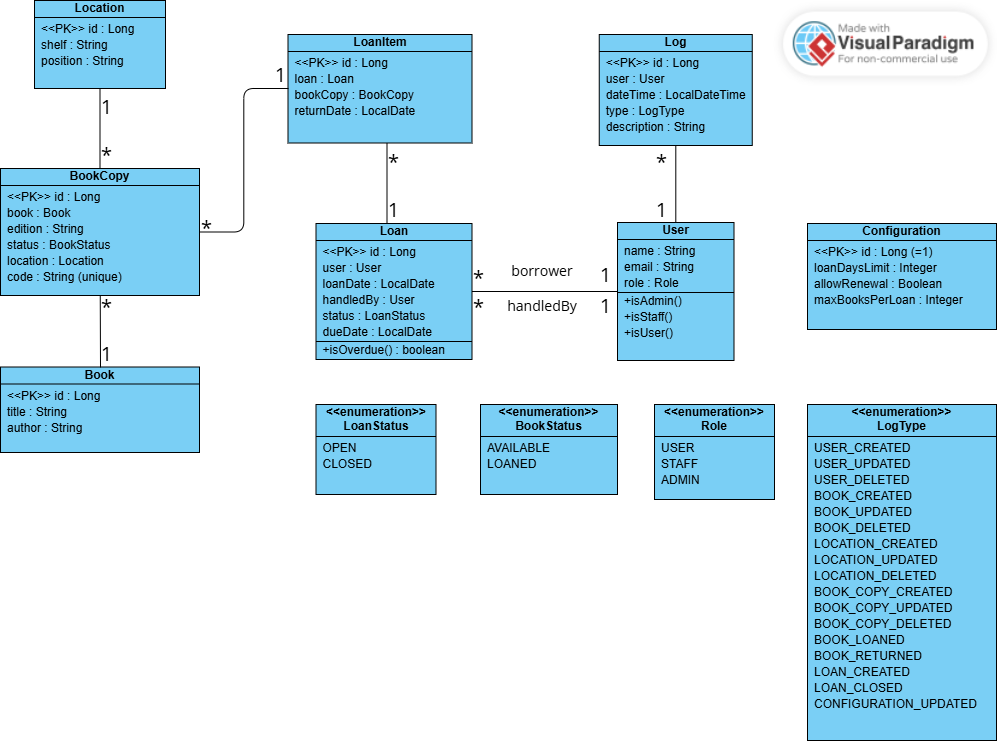
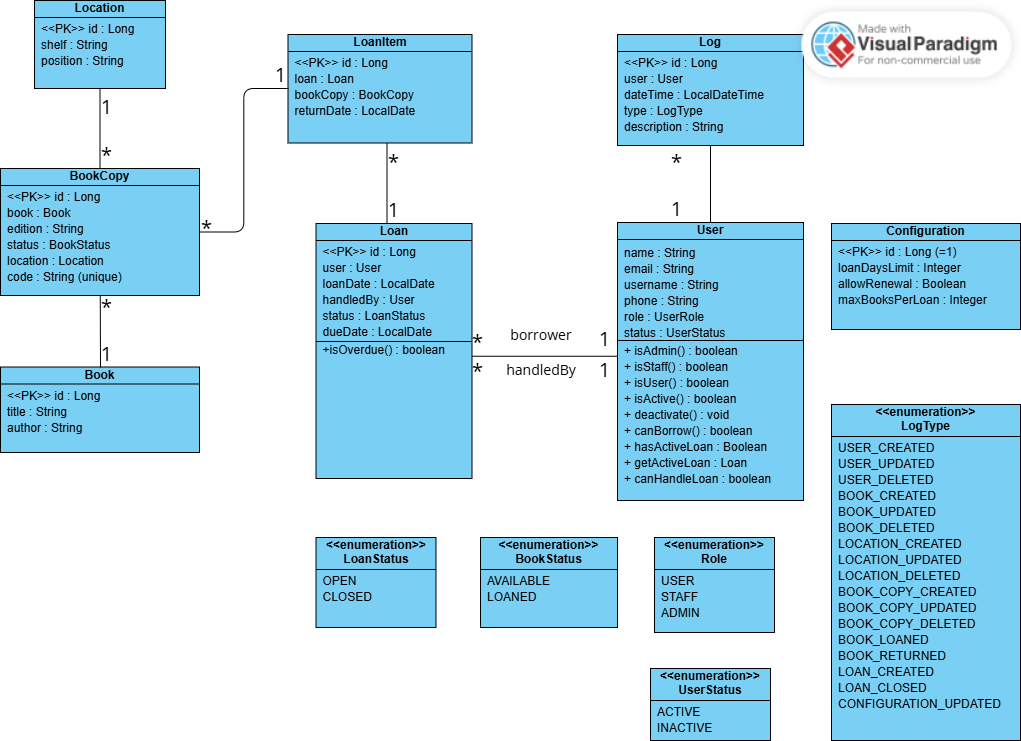
Alteracao entidade User, alteracao uml, criacao de metodos auxiliares na entidade user

diff --git a/src/main/java/com/acervo/acervoespirita/model/User.java b/src/main/java/com/acervo/acervoespirita/model/User.java
@@ -1,10 +1,17 @@
 package com.acervo.acervoespirita.model;
 
 import com.acervo.acervoespirita.model.enums.UserRole;
+import com.acervo.acervoespirita.model.enums.UserStatus;
 import jakarta.persistence.*;
+import jakarta.validation.constraints.Email;
+import jakarta.validation.constraints.NotBlank;
 import lombok.*;
 
 import java.io.Serializable;
+import java.time.Instant;
+import java.util.ArrayList;
+import java.util.Collections;
+import java.util.List;
 import java.util.Objects;
 
 @Entity
@@ -12,21 +19,67 @@ import java.util.Objects;
 @Getter
 @Setter
 @NoArgsConstructor
-@ToString
+@ToString(exclude = {"loans"})
 public class User implements Serializable {
 
     @Id
     @GeneratedValue(strategy = GenerationType.IDENTITY)
     private Long id;
+
+    @NotBlank
+    @Column(nullable = false)
     private String name;
+
+    @Column(unique = true, nullable = false)
+    @Setter(AccessLevel.NONE)
+    private String username;
+
+    // Tanto o email como phone podem estar vazio sao dados so para contatos
+    @Email
     private String email;
+    private String phone;
+
+    @Column(nullable = false)
+    @Enumerated(EnumType.STRING)
+    @Setter(AccessLevel.NONE)
     private UserRole role;
 
+    @OneToMany(mappedBy = "user", fetch = FetchType.LAZY)
+    @Setter(AccessLevel.NONE) //Nao permite setar uma nova lista de emprestimos, vai precisar add novos emprestimos na lista ja existente
+    private List<Loan> loans = new ArrayList<>();
+
+    @Column(nullable = false)
+    @Enumerated(EnumType.STRING)
+    private UserStatus status;
+
+    @Column(nullable = false, updatable = false)
+    private Instant createdAt;
+
+    @Column(nullable = false)
+    private Instant updatedAt;
+
     @Builder
-    public User(String name, String email, UserRole role) {
+    public User(String name, String email, String username, String phone, UserRole role) {
+        if (name == null || name.isBlank()) {
+            throw new IllegalArgumentException("É necessário informar o nome!");
+        }
+
+        if (username == null || username.isBlank()) {
+            throw new IllegalArgumentException("É necessário informar o Usuário!");
+        }
+
+        if (role == null) {
+            throw new IllegalArgumentException("É necessário informar o função do usuário!");
+        }
+
         this.name = name;
         this.email = email;
+        this.username = username;
+        this.phone = phone;
         this.role = role;
+        this.status = UserStatus.ACTIVE;
+        this.createdAt = Instant.now();
+        this.updatedAt = Instant.now();
     }
 
     @Override
@@ -40,6 +93,75 @@ public class User implements Serializable {
     public int hashCode() {
         return Objects.hashCode(id);
     }
+
+    //Métodos criados
+
+    //Metodos sobre o Usuario
+    public boolean isActive() {
+        return status == UserStatus.ACTIVE;
+    }
+
+    public void deactivate() {
+        if (hasActiveLoan()) {
+            throw new IllegalStateException("Erro ao Inativar: Usuário tem um empréstimo ativo!");
+        }
+        this.status = UserStatus.INACTIVE;
+    }
+
+    public boolean isAdmin() {
+        return role == UserRole.ADMIN;
+    }
+
+    public boolean isStaff() {
+        return role == UserRole.STAFF;
+    }
+
+    public boolean isUser() {
+        return role == UserRole.USER;
+    }
+
+    public void changeRole(UserRole newRole) {
+        if (newRole == null) {
+            throw new IllegalArgumentException("Role inválida");
+        }
+        this.role = newRole;
+    }
+
+    @PreUpdate
+    public void updateTime() {
+        updatedAt = Instant.now();
+    }
+
+    public boolean canHandleLoan() {
+        return role == UserRole.STAFF || role == UserRole.ADMIN;
+    }
+
+    //Metodos sobre Emrpestimos
+
+    public boolean canBorrow() {
+        return isActive() && !hasActiveLoan();
+    }
+
+    public void addLoan(Loan loan) {
+        loans.add(loan);
+        loan.setUser(this);
+    }
+
+    public List<Loan> getLoans() {
+        return Collections.unmodifiableList(loans);
+    }
+
+    public boolean hasActiveLoan() {
+        return loans.stream().anyMatch(Loan::isActive);
+    }
+
+    public Loan getActiveLoan() {
+        return loans.stream()
+                .filter(Loan::isActive)
+                .findFirst()
+                .orElse(null);
+    }
+
 
 }
 

diff --git a/src/main/java/com/acervo/acervoespirita/model/Loan.java b/src/main/java/com/acervo/acervoespirita/model/Loan.java
@@ -1,5 +1,7 @@
 package com.acervo.acervoespirita.model;
 
+import com.acervo.acervoespirita.model.enums.LoanStatus;
+import com.acervo.acervoespirita.model.enums.UserStatus;
 import jakarta.persistence.*;
 import lombok.*;
 
@@ -19,9 +21,20 @@ public class Loan implements Serializable {
     @Id
     @GeneratedValue(strategy = GenerationType.IDENTITY)
     private Long id;
+
+    @ManyToOne(fetch = FetchType.LAZY)
+    @JoinColumn(name = "user_id")
     private User user;
-    private LocalDate loanDate;
+
+    @ManyToOne(fetch = FetchType.LAZY)
+    @JoinColumn(name = "handled_by_id")
     private User handledBy;
+
+    private LocalDate loanDate;
+
+    private LoanStatus status;
+
+
 
     @Builder
     public Loan(User user, LocalDate loanDate, User handledBy) {
@@ -40,5 +53,9 @@ public class Loan implements Serializable {
     @Override
     public int hashCode() {
         return Objects.hashCode(id);
+    }
+
+    public boolean isActive() {
+        return status == LoanStatus.OPEN;
     }
 }

diff --git a/src/main/java/com/acervo/acervoespirita/model/enums/UserStatus.java b/src/main/java/com/acervo/acervoespirita/model/enums/UserStatus.java
@@ -1,0 +1,6 @@
+package com.acervo.acervoespirita.model.enums;
+
+public enum UserStatus {
+    ACTIVE,
+    INACTIVE,
+}
